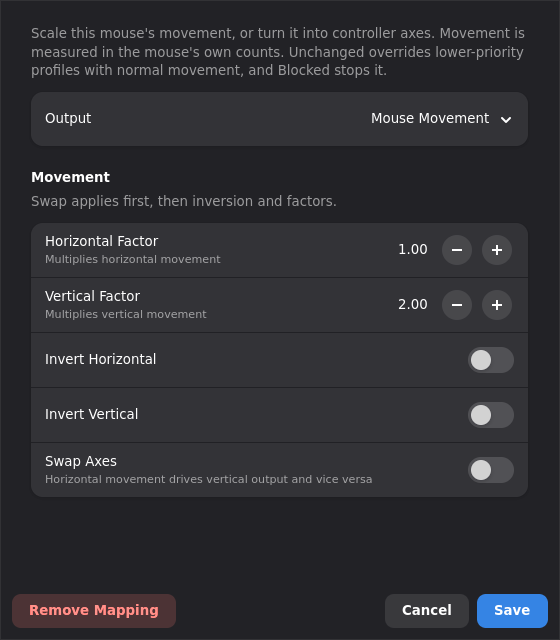
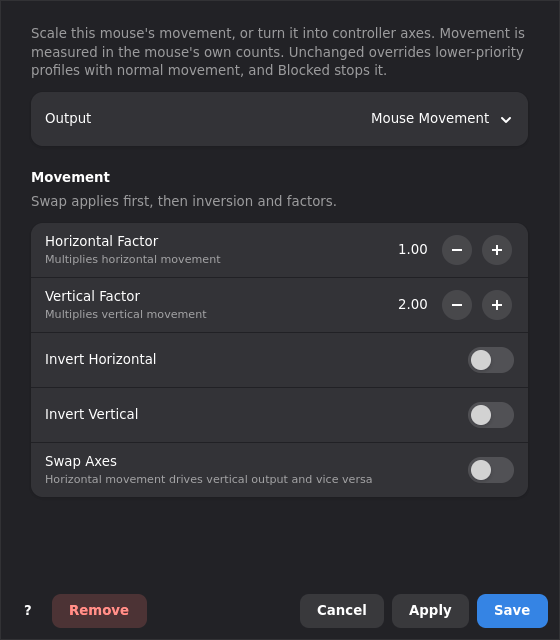
Polish the Pointer Movement dialog
Right-click on + or - steps to the next whole factor, so it returns to 1
instead of jumping to the limit; the other fields step by fixed amounts.
Add the documentation button, shorten Remove Mapping to Remove, and add
Apply to commit settings without closing the dialog.

Changed region(s): [[0.0, 0.9062, 0.3339, 1.0], [0.6982, 0.9375, 0.8196, 0.9688], [0.5464, 0.9375, 0.6679, 0.9688]]

diff --git a/keymasq/gui/widgets/pointer_movement_dialog.py b/keymasq/gui/widgets/pointer_movement_dialog.py
@@ -1,5 +1,6 @@
 """Edit one profile's pointer movement factors or controller-axis output."""
 
+import logging
 from collections.abc import Callable
 
 import gi
@@ -9,6 +10,7 @@ gi.require_version("Adw", "1")
 
 from gi.repository import Adw, Gtk  # pyright: ignore[reportAttributeAccessIssue]
 
+from keymasq import __version__
 from keymasq.common.model.actions import MappingAction
 from keymasq.common.model.core import ActionType
 from keymasq.common.model.pointer import (
@@ -21,12 +23,15 @@ from keymasq.common.model.pointer import (
 )
 from keymasq.common.output_axes import STANDARD_OUTPUT_AXES, OutputAxis, learned_output_axes
 from keymasq.common.virtual_device_templates import resolve_virtual_devices, template_output_axes
+from keymasq.gui.widgets.docs_links import docs_page_url
 from keymasq.gui.widgets.gamepad_output_choices import (
     GamepadOutputChoiceSet,
     gamepad_output_choice_matches,
     load_gamepad_output_choices,
 )
-from keymasq.gui.widgets.spin_inputs import spin_row
+from keymasq.gui.widgets.spin_inputs import add_spin_secondary_step_controller, spin_row
+
+log = logging.getLogger(__name__)
 
 _MODES = (
     ("mouse", "Mouse Movement"),
@@ -66,10 +71,12 @@ class PointerMovementDialog(Adw.Dialog):
         current_action: MappingAction | None,
         *,
         on_save: Callable[[MappingAction | None], None],
+        on_apply: Callable[[MappingAction], None] | None = None,
         output_choices_loader: OutputChoicesLoader = load_gamepad_output_choices,
     ) -> None:
         super().__init__(title=f"Pointer Movement · {source_label}", content_width=560)
         self._on_save = on_save
+        self._on_apply = on_apply or on_save
         self._output_choices_loader = output_choices_loader
         self._output_ids: list[str | None] = []
         self._axes_by_output: dict[str, tuple[OutputAxis, ...]] = {}
@@ -222,7 +229,13 @@ class PointerMovementDialog(Adw.Dialog):
         footer = Gtk.Box(spacing=8)
         for side in ("top", "bottom", "start", "end"):
             getattr(footer, f"set_margin_{side}")(12)
-        self.remove_button = Gtk.Button(label="Remove Mapping")
+        docs_button = Gtk.Button(label="?")
+        docs_button.add_css_class("flat")
+        docs_button.add_css_class("actions-docs-button")
+        docs_button.set_tooltip_text("Open Pointer Movement documentation")
+        docs_button.connect("clicked", self._on_docs_clicked)
+        footer.append(docs_button)
+        self.remove_button = Gtk.Button(label="Remove")
         self.remove_button.add_css_class("destructive-action")
         self.remove_button.set_sensitive(current_action is not None)
         self.remove_button.connect("clicked", self._on_remove_clicked)
@@ -231,6 +244,10 @@ class PointerMovementDialog(Adw.Dialog):
         cancel = Gtk.Button(label="Cancel")
         cancel.connect("clicked", self._on_cancel_clicked)
         footer.append(cancel)
+        self.apply_button = Gtk.Button(label="Apply")
+        self.apply_button.set_tooltip_text("Apply without closing, to fine tune while playing")
+        self.apply_button.connect("clicked", self._on_apply_clicked)
+        footer.append(self.apply_button)
         self.save_button = Gtk.Button(label="Save")
         self.save_button.add_css_class("suggested-action")
         self.save_button.connect("clicked", self._on_save_clicked)
@@ -247,6 +264,18 @@ class PointerMovementDialog(Adw.Dialog):
             self.minimum_output_row,
             self.response_curve_row,
         )
+        for row, step in (
+            (self.factor_x_row, 1.0),
+            (self.factor_y_row, 1.0),
+            (self.full_speed_row, 500.0),
+            (self.window_row, 10.0),
+            (self.radius_row, 100.0),
+            (self.recenter_row, 100.0),
+            (self.deadzone_row, 5.0),
+            (self.minimum_output_row, 5.0),
+            (self.response_curve_row, 0.25),
+        ):
+            add_spin_secondary_step_controller(row, page_step=step, snap_to_step=True)
         content = Gtk.Box(orientation=Gtk.Orientation.VERTICAL)
         page.set_vexpand(True)
         content.append(page)
@@ -380,6 +409,17 @@ class PointerMovementDialog(Adw.Dialog):
     def _on_save_clicked(self, _button: Gtk.Button) -> None:
         self._on_save(self.action())
         self.close()
+
+    def _on_apply_clicked(self, _button: Gtk.Button) -> None:
+        self._on_apply(self.action())
+        self.remove_button.set_sensitive(True)
+
+    def _on_docs_clicked(self, _button: Gtk.Button) -> None:
+        url = docs_page_url("pointer-movement", version=__version__)
+        try:
+            Gtk.UriLauncher.new(url).launch(None, None, None)
+        except Exception:
+            log.exception("Could not open Pointer Movement documentation %s", url)
 
     def _on_cancel_clicked(self, _button: Gtk.Button) -> None:
         self.close()

diff --git a/keymasq/gui/widgets/device_tab/mapping.py b/keymasq/gui/widgets/device_tab/mapping.py
@@ -346,25 +346,30 @@ class MappingMixin:
         layer = self._device_layer_for_profile(target_profile)
         current_action = layer.mappings.get(POINTER_SOURCE_ID) if layer else None
 
+        def commit_selection(action: MappingAction | None) -> None:
+            current_profile = self._resolve_mapping_target_profile(target_profile)
+            current_layer = self._device_layer_for_profile(current_profile, create=True)
+            if current_layer is None:
+                return
+            if action is None:
+                current_layer.mappings.pop(POINTER_SOURCE_ID, None)
+            else:
+                current_layer.mappings[POINTER_SOURCE_ID] = action
+            if self._profile_is_selected(current_profile):
+                self._selected_profile = current_profile
+                self._update_button_display(POINTER_SOURCE_ID)
+                self._update_header_caption()
+            self._save_specific_profile(current_profile)
+
         def on_save(action: MappingAction | None) -> None:
-            def commit_selection() -> None:
-                current_profile = self._resolve_mapping_target_profile(target_profile)
-                current_layer = self._device_layer_for_profile(current_profile, create=True)
-                if current_layer is None:
-                    return
-                if action is None:
-                    current_layer.mappings.pop(POINTER_SOURCE_ID, None)
-                else:
-                    current_layer.mappings[POINTER_SOURCE_ID] = action
-                if self._profile_is_selected(current_profile):
-                    self._selected_profile = current_profile
-                    self._update_button_display(POINTER_SOURCE_ID)
-                    self._update_header_caption()
-                self._save_specific_profile(current_profile)
+            defer_commit(lambda: commit_selection(action))
 
-            defer_commit(commit_selection)
+        def on_apply(action: MappingAction) -> None:
+            self._queue_selector_commit_after_close(lambda: commit_selection(action))
 
-        dialog = PointerMovementDialog(self.device.name, current_action, on_save=on_save)
+        dialog = PointerMovementDialog(
+            self.device.name, current_action, on_save=on_save, on_apply=on_apply
+        )
         defer_commit = self._defer_selector_commit_until_dialog_closed(dialog)
         dialog.present(self.get_root())
 

diff --git a/keymasq/gui/widgets/spin_inputs.py b/keymasq/gui/widgets/spin_inputs.py
@@ -1,3 +1,4 @@
+import math
 from collections.abc import Callable
 
 import gi
@@ -207,6 +208,7 @@ def add_spin_secondary_step_controller(
     *,
     page_step: float | None = None,
     reset_value: float | None = None,
+    snap_to_step: bool = False,
     split_desync_axis: str | None = None,
     request_split_desync: Callable[[str], None] | None = None,
 ) -> None:
@@ -219,6 +221,7 @@ def add_spin_secondary_step_controller(
         row,
         page_step,
         reset_value,
+        snap_to_step,
         split_desync_axis,
         request_split_desync,
     )
@@ -233,6 +236,7 @@ def _on_spin_secondary_step_pressed(
     row: Adw.SpinRow,
     page_step: float | None,
     reset_value: float | None,
+    snap_to_step: bool,
     split_desync_axis: str | None,
     request_split_desync: Callable[[str], None] | None,
 ) -> None:
@@ -246,7 +250,7 @@ def _on_spin_secondary_step_pressed(
         state = Gdk.ModifierType(0)
     if split_desync_axis and request_split_desync is not None and state & SPLIT_DESYNC_MODIFIERS:
         request_split_desync(split_desync_axis)
-    apply_spin_secondary_step(row, direction, page_step, reset_value)
+    apply_spin_secondary_step(row, direction, page_step, reset_value, snap_to_step=snap_to_step)
 
 
 def spin_secondary_step_direction(row: Adw.SpinRow, x: float) -> int | None:
@@ -265,6 +269,8 @@ def apply_spin_secondary_step(
     direction: int,
     page_step: float | None,
     reset_value: float | None = None,
+    *,
+    snap_to_step: bool = False,
 ) -> None:
     if reset_value is not None:
         row.set_value(reset_value)
@@ -272,7 +278,14 @@ def apply_spin_secondary_step(
     if page_step is None:
         return
     adjustment = row.get_adjustment()
-    next_value = row.get_value() + (page_step if direction > 0 else -page_step)
+    if snap_to_step:
+        steps = row.get_value() / page_step
+        next_steps = (
+            math.floor(steps + 1e-6) + 1 if direction > 0 else math.ceil(steps - 1e-6) - 1
+        )
+        next_value = next_steps * page_step
+    else:
+        next_value = row.get_value() + (page_step if direction > 0 else -page_step)
     row.set_value(
         min(
             adjustment.get_upper(),

diff --git a/tests/gui/test_pointer_movement_dialog.py b/tests/gui/test_pointer_movement_dialog.py
@@ -10,6 +10,7 @@ from keymasq.common.model.core import ActionType
 from keymasq.common.model.pointer import PointerMovementConfig
 from keymasq.gui.widgets.gamepad_output_choices import GamepadOutputChoiceSet
 from keymasq.gui.widgets.pointer_movement_dialog import PointerMovementDialog
+from keymasq.gui.widgets.spin_inputs import apply_spin_secondary_step
 
 
 def _choices(_selected: str | None) -> GamepadOutputChoiceSet:
@@ -82,3 +83,46 @@ def test_mouse_mode_keeps_axis_settings_without_loading_outputs_and_offers_overr
         ActionType.PASSTHROUGH,
         ActionType.SUPPRESS,
     ]
+
+
+def test_apply_reports_the_current_settings_and_enables_remove() -> None:
+    saved: list[MappingAction | None] = []
+    applied: list[MappingAction] = []
+    dialog = PointerMovementDialog("Mouse", None, on_save=saved.append, on_apply=applied.append)
+    assert not dialog.remove_button.get_sensitive()
+
+    dialog.factor_y_row.set_value(2.0)
+    dialog.apply_button.emit("clicked")
+    dialog.factor_y_row.set_value(3.0)
+    dialog.apply_button.emit("clicked")
+
+    assert saved == []
+    assert [action.pointer_movement.factor_y for action in applied if action.pointer_movement] == [
+        2.0,
+        3.0,
+    ]
+    assert dialog.remove_button.get_sensitive()
+
+
+@pytest.mark.parametrize(
+    ("value", "direction", "expected"),
+    [
+        (0.35, 1, 1.0),
+        (1.0, 1, 2.0),
+        (1.35, 1, 2.0),
+        (1.35, -1, 1.0),
+        (2.0, -1, 1.0),
+        (3.5, -1, 3.0),
+        (0.35, -1, 0.0),
+        (49.5, 1, 50.0),
+    ],
+)
+def test_factor_secondary_steps_land_on_whole_numbers(
+    value: float, direction: int, expected: float
+) -> None:
+    dialog = PointerMovementDialog("Mouse", None, on_save=lambda _action: None)
+    dialog.factor_x_row.set_value(value)
+
+    apply_spin_secondary_step(dialog.factor_x_row, direction, 1.0, snap_to_step=True)
+
+    assert dialog.factor_x_row.get_value() == pytest.approx(expected)

diff --git a/docs/pointer-movement.md b/docs/pointer-movement.md
@@ -19,6 +19,13 @@ Y movement. Buttons and the wheel keep their own mappings.
 As with other mappings, the highest-priority active profile that maps the pointer decides its
 behavior. Settings from lower-priority profiles are not combined with it.
 
+**Apply** saves the settings without closing the editor. You can then fine tune them while a
+game is running. **Save** applies and closes, and **Remove** deletes the mapping.
+
+Right-clicking a number field's **+** or **−** button moves the value to the next step on
+the same side. The factors move to the next whole number, so right-clicking **+** at 0.35 or
+**−** at 1.35 returns to 1.
+
 All distances and speeds use the mouse's own counts, the raw units it reports before desktop
 pointer acceleration. A 1600 DPI mouse reports about 630 counts per centimeter.
 
